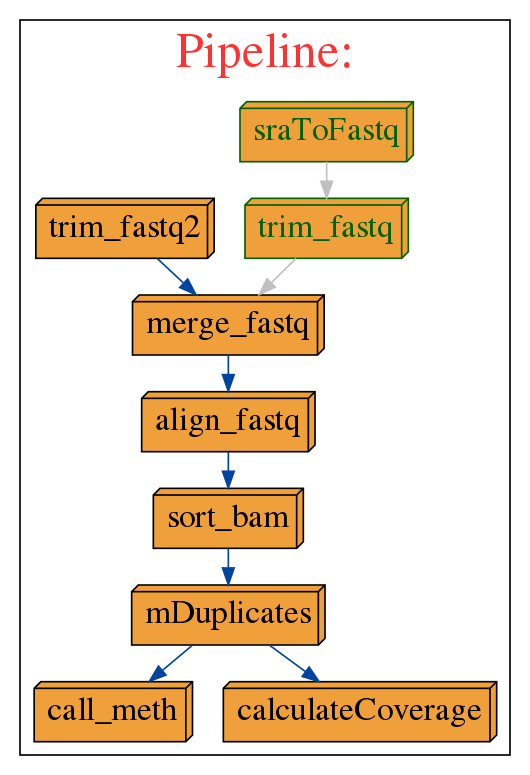
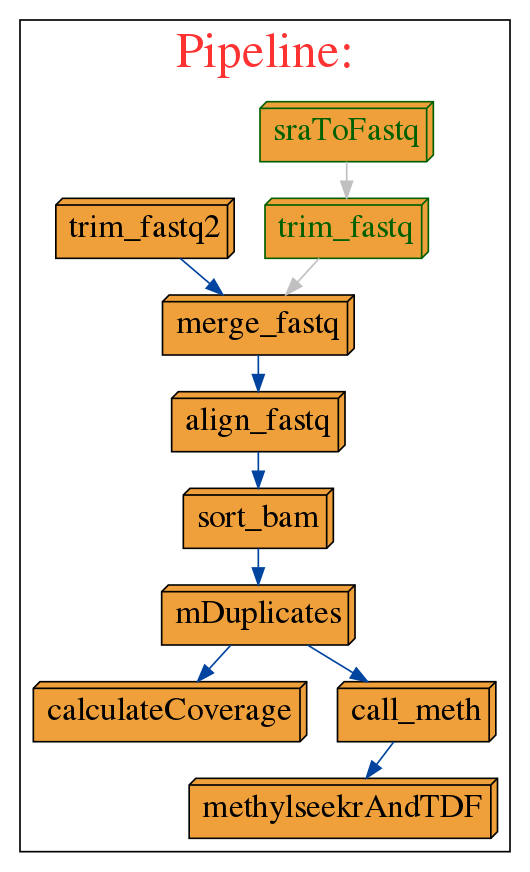
Adding TDF and MethylSeekR to pipeline

diff --git a/Majel.py b/Majel.py
@@ -381,12 +381,20 @@ def calculateCoverage(input_file, output_file, logger, logger_mutex):
 @transform(mDuplicates, regex(r".bam$"), ["_CpG.bedGraph",'_OB.svg','_OT.svg'], logger, logger_mutex)
 def call_meth(input_file, output_file, logger, logger_mutex):
     methPath = getFunctionPath("MethylDackel")
-    bias_cmd=("%s mbias -@ %s /media/bowen_work/pipeline_data/Genomes/%s/%s.fa %s %s" % (methPath, options.aligner_threads, options.genome, options.genome, input_file[0], re.sub(pattern = '\.bam$', repl='',string = input_file[0])))
+    bias_cmd=("%s mbias -@ %s %s/pipeline_data/Genomes/%s/%s.fa %s %s" % (methPath, options.aligner_threads, options.bowenPath, options.genome, options.genome, input_file[0], re.sub(pattern = '\.bam$', repl='',string = input_file[0])))
     os.system(bias_cmd)
-    cmd=("%s extract -@ %s --mergeContext /media/bowen_work/pipeline_data/Genomes/%s/%s.fa %s" % (methPath, options.aligner_threads, options.genome, options.genome, input_file[0]))
+    cmd=("%s extract -@ %s --mergeContext %s/pipeline_data/Genomes/%s/%s.fa %s" % (methPath, options.aligner_threads, options.bowenPath, options.genome, options.genome, input_file[0]))
     os.system(cmd)
     
     with logger_mutex:
         logger.log(MESSAGE,  timestamp("MethylDackel Completed"))
+
+@transform(call_meth, regex(r"_sd_CpG.bedGraph"), ["_PMD.bed", "_UMRLMR.bed", "_wPMD_UMRLMR.bed", "_sd_CpG.tdf"])
+def methylseekrAndTDF(input_file, outpu_file, logger, logger_mutex):
+    Rscript_cmd = "Rscript %s/pipeline_data/majel_wgbspipline/main/Rscripts/CallMethylseekrRegions_and_convertMethCallsToTdf.R -g %s -i %s -t %s/pipeline_data/majel_wgbspipline/main/data/TissueToEmbryoMap.csv -p %s" % (options.bowenPath, options.genome, input_file[0], options.bowenPath, options.aligner_threads)
+    os.system(Rscript_cmd)
     
+    with logger_mutex:
+        logger.log(MESSAGE,  timestamp("MethylSeekR and toTDF Completed"))
+
 cmdline.run(options)

diff --git a/README.md b/README.md
@@ -7,7 +7,7 @@ method (e.g. wget).\
 \
 Majel will automate all subsequent standard processing steps, including conversion from sra to fastq (fastq-dump), read \
 trmming & FASTQC (trim-galore), mapping (bismark), duplicate marking (picard), methylation bias assesment & CpG methylation \
-calling (methyldackel), as well as produce some summary statistics. \
+calling (methyldackel), borwser tracks, UMR/LMR/PMD calls, as well as produce some summary statistics.
 
 ![Majel Process](./images/MajelFlowchart.png)
 
@@ -20,6 +20,8 @@ The pipeline will output the following.
 * QC files
    * Methylation bias plots
    * FASTQC reports
+* MethylSeekR UMR, LMR and PMD calls plus QC plots
+* TDF file for viewing in IGV
 
 \
 A large number of intermediate files are also produced, these can be removed (and the final directory structure formed) using the \
@@ -29,13 +31,13 @@ included cleanup script\
 These intermediate files can be very large when working with high-coverage datasets. This can be especially true during the \
 bismark mapping steps or when running from SRA files. When running from SRA, cleanup.sh will not remove fastq files produced\
 by fastq-dump. The user must remove these manually. This is to prevent the accidental deletion of raw fastq files when running on\
-user generated data. This can also be prevented by good data practices (e.g. soft linking raw data).\
+user generated data. This can also be prevented by good data practices (e.g. soft linking raw data).
 
 ## Using Majel
 Majel makes use of the Python pipelining module ruffus (see [ruffus docs](http://www.ruffus.org.uk/)). Expect a long walltime on\
 high coverage datasets (>5 days).\
 \
-Majel help is available using the '--help' flag.\
+Majel help is available using the '--help' flag.
 
 ```
 usage: Majel.py [-h] [--verbose [VERBOSE]] [--version] [-L FILE] [-T JOBNAME]
@@ -110,7 +112,7 @@ pipeline arguments:
 ```
  
 ## Required software
-Majel was written using the following packages\
+Majel was written using the following packages
 * FastQC v0.11.5
 * bismark-0.18.1 https://www.bioinformatics.babraham.ac.uk/projects/bismark/
 * Methyldackel-0.3.0 (using HTSlib version 1.2.1) https://github.com/dpryan79/MethylDackel
@@ -118,9 +120,10 @@ Majel was written using the following packages\
 * fastq-dump : 2.8.2 (from sra toolkit) https://www.ncbi.nlm.nih.gov/sra/docs/toolkitsoft/
 * samtools-1.4.1 (using htslib 1.4.1) http://www.htslib.org/doc/samtools.html
 * picard MarkDuplicates version 2.9.4-1-gcda9516-SNAPSHOT https://broadinstitute.github.io/picard/command-line-overview.html
+* igvtools (from IGV Version 2.3.95)
 
 \
-Majel will call the following python modules\
+Majel will call the following python modules
 * ruffus
 * os
 * subprocess
@@ -128,4 +131,16 @@ Majel will call the following python modules\
 * shlex
 * re
 * pandas
+
+\
+Majel requires the following R packages
+* littler
+* optparse
+* MethylSeekR
+* data.table
+* GenomicRanges
+* rtracklayer
+* BSgenome
+* BSgenome.Hsapiens.UCSC.hg19
+* parallel
 
